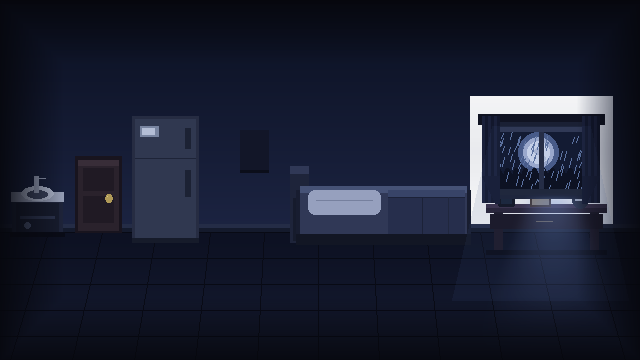
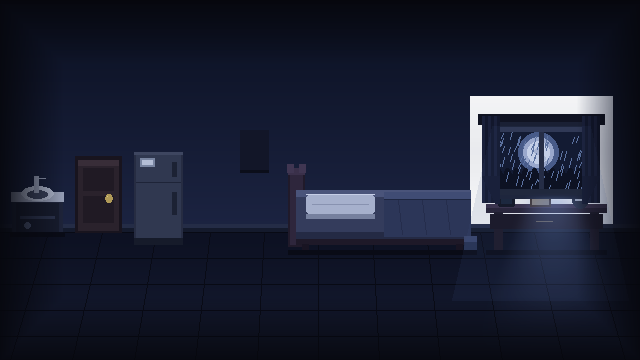
art: perbaiki karakter (idle diam + tangan), kasur, dan perkecil kulkas
- Karakter: idle kini benar-benar DIAM (sebelumnya memakai tabel langkah -> lengan
  berayun & badan naik-turun). Lengan dirapikan & diberi warna lebih gelap agar tidak
  menyatu dengan torso; tangan dibuat kecil (bukan balok peach besar).
- Ukuran karakter dinaikkan sedikit: player.gd sprite_scale=1.25 (visual saja, collision
  tetap) + kompensasi offset agar kaki menempel lantai.
- Kasur digambar ulang: headboard, matras tebal, bantal persegi jelas, selimut berlipat
  + menggantung, kaki & bayangan kontak -> jelas terbaca sebagai kasur.
- Kulkas diperkecil (48x90) + collision & anchor interactable disesuaikan.
- Docs: D008 + catatan animasi di MECHANICS_SPEC.
- test_reachability (Bedroom 1364), test_intro, test_chapter1_scenes LULUS.

diff --git a/scripts/gen_art_v2.py b/scripts/gen_art_v2.py
@@ -128,31 +128,38 @@ def draw_leg(g, x, top, lift, forward, c_leg, c_sh, c_shoe, c_shoe_hi):
 # ----------------------------------------------------------------------------
 # Karakter — Arutala (hoodie gelap, rambut spike ala Sasuke)
 # ----------------------------------------------------------------------------
-def draw_char(direction, frame):
+def draw_char(direction, frame, walking=True):
     g = new_grid()
     side = direction == "side"
     down = direction == "down"
     up = direction == "up"
 
     # ---------------- Kaki / langkah ----------------
+    # idle = berdiri DIAM (tanpa ayunan lengan / naik-turun). walk = langkah.
     if side:
-        STEPS = [
-            (4, 0, -3, 0, -3, 0),   # kontak
+        WALK = [
+            (4, 0, -3, 0, -2, 0),   # kontak
             (0, 0, 0, 3, 0, 1),     # passing
-            (-3, 0, 4, 0, 3, 0),    # kontak kebalikan
+            (-3, 0, 4, 0, 2, 0),    # kontak kebalikan
             (0, 3, 0, 0, 0, 1),     # passing
         ]
-        adx, alift, bdx, blift, aswing, bob = STEPS[frame]
+        if walking:
+            adx, alift, bdx, blift, aswing, bob = WALK[frame % 4]
+        else:
+            adx, alift, bdx, blift, aswing, bob = (0, 0, 0, 0, 0, 0)
         draw_leg(g, 12, 35, blift, bdx, P["pants_sh"], P["pants_sh"], P["shoe"], P["shoe_hi"])
         draw_leg(g, 12, 35, alift, adx, P["pants"], P["pants_sh"], P["shoe"], P["shoe_hi"])
     else:
-        STEPS = [
-            (-1, 0, 1, 0, 3, -3, 0),
+        WALK = [
+            (-1, 0, 1, 0, 2, -2, 0),
             (0, 3, 0, 0, 0, 0, 1),
-            (1, 0, -1, 0, -3, 3, 0),
+            (1, 0, -1, 0, -2, 2, 0),
             (0, 0, 0, 3, 0, 0, 1),
         ]
-        ldx, llift, rdx, rlift, larm, rarm, bob = STEPS[frame]
+        if walking:
+            ldx, llift, rdx, rlift, larm, rarm, bob = WALK[frame % 4]
+        else:
+            ldx, llift, rdx, rlift, larm, rarm, bob = (0, 0, 0, 0, 0, 0, 0)
         aswing = 0
         draw_leg(g, 10, 35, llift, ldx, P["pants"], P["pants_sh"], P["shoe"], P["shoe_hi"])
         draw_leg(g, 18, 35, rlift, rdx, P["pants"], P["pants_sh"], P["shoe"], P["shoe_hi"])
@@ -180,19 +187,24 @@ def draw_char(direction, frame):
     # kerah/hood di belakang leher
     rect(g, 10, ty0 - 1, 21, ty0 + 1, P["hood_sh"])
 
-    # ---------------- Lengan ----------------
+    # ---------------- Lengan (lebih ramping, terpisah dari torso) ----------------
     if side:
         ax = 15 + aswing
-        rect(g, ax - 2, ty0 + 2, ax + 2, ty1 - 2, P["hood"])
-        vline(g, ax + 2, ty0 + 2, ty1 - 2, P["hood_sh"])
-        rect(g, ax - 2, ty1 - 2, ax + 2, ty1 - 1, P["skin"])   # tangan
+        rect(g, ax - 2, ty0 + 2, ax + 1, ty1 - 3, P["hood_sh"])   # lengan (lebih gelap)
+        vline(g, ax - 2, ty0 + 2, ty1 - 3, P["hood"])             # tepi depan terang
+        rect(g, ax - 2, ty1 - 3, ax + 1, ty1 - 1, P["skin"])      # tangan 4x3
+        px(g, ax - 2, ty1 - 1, P["skin_sh"])                      # jempol
     else:
-        rect(g, 5, ty0 + 2 + larm, 8, ty1 - 1 + larm, P["hood"])
-        rect(g, 23, ty0 + 2 + rarm, 26, ty1 - 1 + rarm, P["hood"])
-        vline(g, 5, ty0 + 2 + larm, ty1 - 1 + larm, P["hood_hi"])
-        vline(g, 26, ty0 + 2 + rarm, ty1 - 1 + rarm, P["hood_sh"])
-        rect(g, 5, ty1 - 1 + larm, 8, ty1 + larm, P["skin"])
-        rect(g, 23, ty1 - 1 + rarm, 26, ty1 + rarm, P["skin"])
+        # lengan kiri & kanan (warna lebih gelap dari hoodie agar tidak menyatu)
+        rect(g, 6, ty0 + 2 + larm, 8, ty1 - 2 + larm, P["hood_sh"])
+        vline(g, 6, ty0 + 2 + larm, ty1 - 2 + larm, P["hood_hi"])
+        rect(g, 23, ty0 + 2 + rarm, 25, ty1 - 2 + rarm, P["hood_sh"])
+        vline(g, 25, ty0 + 2 + rarm, ty1 - 2 + rarm, P["hood_sh"])
+        # tangan kecil (3x2 + ibu jari) — bukan balok besar
+        rect(g, 6, ty1 - 2 + larm, 8, ty1 - 1 + larm, P["skin"])
+        px(g, 6, ty1 - 1 + larm, P["skin_sh"])
+        rect(g, 23, ty1 - 2 + rarm, 25, ty1 - 1 + rarm, P["skin"])
+        px(g, 25, ty1 - 1 + rarm, P["skin_sh"])
 
     # ---------------- Leher & kepala ----------------
     rect(g, 14, ty0 - 3, 17, ty0 - 1, P["skin_sh"])
@@ -293,10 +305,10 @@ def build_sheet(path):
     for name, row, count in ANIMS:
         direction = "down" if "down" in name else "up" if "up" in name else "side"
         for i in range(count):
-            frame = i if "walk" in name else (i * 2)
+            frame = i
             cell = Image.new("RGBA", (FW, FH), (0, 0, 0, 0))
             cell.alpha_composite(shadow)
-            cell.alpha_composite(draw_char(direction, frame))
+            cell.alpha_composite(draw_char(direction, frame, walking=("walk" in name)))
             sheet.alpha_composite(cell, (i * FW, row * FH))
     sheet.save(path)
     print(f"  sheet  -> {path}  {sheet.size}")
@@ -479,37 +491,54 @@ def make_bedroom(bg_dir):
     d.ellipse([dx1 - 13, 194, dx1 - 6, 202], fill=(176, 154, 88, 255))      # kenop
     d.point([(dx1 - 11, 196)], fill=(214, 198, 132, 255))
 
-    # ---------- Kulkas (samping pintu) ----------
-    fx0, fx1 = 132, 198
-    d.rectangle([fx0, 116, fx1, 242], fill=(38, 44, 66, 255))               # badan
-    d.rectangle([fx0 + 3, 119, fx1 - 3, 239], fill=(48, 56, 80, 255))
-    d.line([(fx0 + 3, 158), (fx1 - 3, 158)], fill=(30, 36, 56, 255))        # garis freezer
-    d.rectangle([fx1 - 13, 128, fx1 - 8, 148], fill=(28, 34, 52, 255))      # gagang atas
-    d.rectangle([fx1 - 13, 170, fx1 - 8, 196], fill=(28, 34, 52, 255))      # gagang bawah
-    d.rectangle([fx0 + 8, 126, fx0 + 26, 136], fill=(120, 132, 160, 255))   # magnet
-    d.rectangle([fx0 + 10, 128, fx0 + 22, 134], fill=(180, 190, 214, 255))
-    d.rectangle([fx0, 238, fx1, 242], fill=(22, 27, 42, 255))               # bayangan
+    # ---------- Kulkas (samping pintu) — lebih kecil, proporsional ----------
+    fx0, fx1 = 134, 182
+    fy0, fy1 = 152, 242
+    d.rectangle([fx0, fy0, fx1, fy1], fill=(38, 44, 66, 255))               # badan
+    d.rectangle([fx0 + 2, fy0 + 2, fx1 - 2, fy1 - 2], fill=(48, 56, 80, 255))
+    d.line([(fx0 + 2, 182), (fx1 - 2, 182)], fill=(30, 36, 56, 255))        # garis freezer
+    d.rectangle([fx0, fy0, fx1, fy0 + 2], fill=(62, 70, 96, 255))           # tepi atas
+    d.rectangle([fx1 - 10, 162, fx1 - 6, 176], fill=(28, 34, 52, 255))      # gagang atas
+    d.rectangle([fx1 - 10, 192, fx1 - 6, 214], fill=(28, 34, 52, 255))      # gagang bawah
+    d.rectangle([fx0 + 6, 158, fx0 + 20, 166], fill=(120, 132, 160, 255))   # magnet
+    d.rectangle([fx0 + 8, 160, fx0 + 18, 164], fill=(180, 190, 214, 255))
+    d.rectangle([fx0, 238, fx1, 244], fill=(22, 27, 42, 255))               # bayangan kontak
 
     # ---------- Backing cermin di dinding (prop mirror.png digambar di atas) ----------
     d.rectangle([240, 130, 268, 172], fill=(18, 22, 40, 255))              # bayangan lembut
     d.rectangle([240, 170, 268, 172], fill=(11, 14, 26, 255))
 
-    # ---------- Kasur (KANAN) ----------
+    # ---------- Kasur (KANAN) — rangka kayu, matras tebal, bantal & selimut ----------
     b0, b1 = 296, 470
-    d.rectangle([b0 - 6, 166, b0 + 12, 242], fill=(30, 36, 58, 255))        # kepala kasur
-    d.rectangle([b0 - 6, 166, b0 + 12, 173], fill=(48, 56, 86, 255))
-    d.rectangle([b0 - 3, 198, b0 + 5, 240], fill=(22, 27, 44, 255))
-    d.rectangle([b0, 190, b1, 244], fill=(24, 29, 48, 255))                 # rangka
-    d.rectangle([b0 + 4, 186, b1 - 4, 238], fill=(48, 56, 86, 255))         # kasur
-    d.rectangle([b0 + 4, 186, b1 - 4, 192], fill=(70, 82, 118, 255))        # tepi atas
-    d.rounded_rectangle([b0 + 12, 190, b0 + 84, 214], radius=7, fill=(150, 160, 190, 255))  # bantal
-    d.line([(b0 + 20, 200), (b0 + 76, 200)], fill=(118, 128, 158, 255))
-    d.rectangle([b0 + 92, 190, b1 - 6, 238], fill=(38, 46, 76, 255))        # selimut
-    d.rectangle([b0 + 92, 190, b1 - 6, 197], fill=(56, 68, 104, 255))       # lipatan
-    d.line([(b0 + 92, 197), (b1 - 6, 197)], fill=(28, 34, 56, 255))
-    d.line([(b0 + 126, 197), (b0 + 126, 238)], fill=(28, 34, 56, 255))
-    d.line([(b0 + 152, 197), (b0 + 152, 238)], fill=(32, 39, 62, 255))
-    d.rectangle([b0, 234, b1, 244], fill=(18, 22, 36, 255))                 # bayangan
+    # kepala kasur (headboard) tinggi dengan dua tiang
+    d.rectangle([b0 - 8, 168, b0 + 8, 246], fill=(32, 26, 42, 255))
+    d.rectangle([b0 - 6, 174, b0 + 6, 244], fill=(46, 38, 60, 255))
+    d.rectangle([b0 - 8, 168, b0 + 8, 174], fill=(58, 48, 74, 255))         # bibir atas
+    d.rectangle([b0 - 9, 164, b0 - 3, 172], fill=(64, 54, 82, 255))         # tiang kiri
+    d.rectangle([b0 + 3, 164, b0 + 9, 172], fill=(64, 54, 82, 255))         # tiang kanan
+    # rangka + kaki
+    d.rectangle([b0, 236, b1, 244], fill=(30, 25, 40, 255))
+    d.rectangle([b0 + 6, 244, b0 + 12, 252], fill=(24, 20, 34, 255))        # kaki kiri
+    d.rectangle([b1 - 14, 244, b1 - 8, 252], fill=(24, 20, 34, 255))        # kaki kanan
+    # matras tebal (dengan sisi atas terang & bawah gelap)
+    d.rectangle([b0, 190, b1, 238], fill=(52, 60, 92, 255))
+    d.rectangle([b0, 190, b1, 196], fill=(74, 84, 122, 255))
+    d.rectangle([b0, 232, b1, 238], fill=(36, 42, 68, 255))
+    # bantal (persegi, jelas) + lipatan + bayangan
+    d.rounded_rectangle([b0 + 10, 194, b0 + 78, 214], radius=5, fill=(166, 176, 204, 255))
+    d.line([(b0 + 10, 194), (b0 + 78, 194)], fill=(198, 206, 230, 255))
+    d.line([(b0 + 16, 204), (b0 + 72, 204)], fill=(136, 146, 176, 255))
+    d.rectangle([b0 + 10, 214, b0 + 78, 218], fill=(118, 128, 158, 255))
+    # selimut menutupi sisi kanan: tepi terlipat, kerutan, menggantung di kanan
+    g0 = b0 + 88
+    d.rectangle([g0, 192, b1, 236], fill=(44, 54, 88, 255))
+    d.rectangle([g0, 192, b1, 199], fill=(64, 76, 116, 255))                # tepi lipatan
+    d.line([(g0, 199), (b1, 199)], fill=(30, 38, 64, 255))
+    for wx in range(g0 + 14, b1 - 10, 24):
+        d.line([(wx, 200), (wx + 4, 234)], fill=(37, 45, 76, 255))          # kerutan
+    d.rectangle([b1 - 6, 236, b1 + 6, 252], fill=(40, 50, 82, 255))         # selimut menggantung
+    d.rectangle([b1 - 6, 236, b1 + 6, 241], fill=(58, 70, 108, 255))
+    d.rectangle([b0 - 8, 250, b1 + 6, 254], fill=(9, 11, 22, 255))          # bayangan kontak
 
     # ---------- Meja (KANAN) + barang ----------
     mx0, mx1 = 486, 606

diff --git a/docs/DECISIONS.md b/docs/DECISIONS.md
@@ -176,3 +176,36 @@ sebagai satu-satunya sumber cahaya.
 - Referensi dipindah ke `docs/references/` (bukan `assets/`) supaya tidak ikut jadi aset game.
 - Regenerasi latar: `/usr/bin/python3 scripts/gen_art_v2.py` (butuh PIL).
 - Referensi #1 dipakai hanya bila #2 tidak memungkinkan; di sini #2 dipakai.
+
+## D008 — Perbaikan Karakter (idle diam + tangan), Kasur, & Ukuran Kulkas
+
+**Tanggal:** 2026-10-09
+**Status:** Diputuskan
+
+### Konteks
+Umpan balik pemain: **kasur masih sangat jelek**, **kulkas terlalu besar**, karakter
+**perlu sedikit lebih besar**, dan saat berdiam karakter **harus langsung idle diam**
+(tangannya "sangat annoying" karena berayun/menekuk).
+
+### Keputusan
+- **Karakter:**
+  - **Idle benar-benar diam.** Sebelumnya frame idle memakai tabel langkah yang sama
+    dengan walk, sehingga lengan berayun +/-2-3 px dan badan naik-turun. Sekarang
+    `draw_char(..., walking=False)` memakai pose statis; frame idle identik.
+  - **Tangan & lengan dirapikan:** lengan lebih ramping, diwarnai `hood_sh` (lebih
+    gelap dari torso) agar tidak menyatu, dan tangan dibuat kecil (3x2 + ibu jari),
+    bukan balok peach besar.
+  - **Ukuran sedikit lebih besar:** `player.gd` `sprite_scale = 1.25` (murni visual,
+    collision tak berubah) + kompensasi offset agar kaki tetap menempel lantai.
+- **Kasur:** digambar ulang — headboard berkepala tiang, matras tebal (highlight atas /
+  bayangan bawah), **bantal persegi jelas**, selimut dengan tepi terlipat + kerutan +
+  menggantung di sisi kanan, kaki & bayangan kontak. Kini jelas terbaca sebagai kasur.
+- **Kulkas:** diperkecil dari ~66x126 -> **48x90** (badan 134..182 x 152..242); collision
+  `RectangleShape2D_fridge` 68x124 -> **50x92** dan dipindah ke (158,197); anchor
+  interactable disesuaikan agar tetap terjangkau.
+
+### Konsekuensi
+- `gen_art_v2.py`: `draw_char(direction, frame, walking=True)`, `build_sheet` mengoper
+  flag `walking`; `make_bedroom` (kasur + kulkas) diperbarui.
+- Regenerasi: `/usr/bin/python3 scripts/gen_art_v2.py`.
+- Uji: `test_reachability` (Bedroom 1364 titik), `test_intro`, `test_chapter1_scenes` LULUS.

diff --git a/docs/MECHANICS_SPEC.md b/docs/MECHANICS_SPEC.md
@@ -54,6 +54,12 @@ Spesifikasi sistem. Tiap sistem punya tujuan emosional, perilaku, dan kriteria p
 - Area interaksi diperbesar & digeser ke zona jalan agar interaksi muncul saat pemain
   benar-benar dekat (bukan terlalu jauh).
 
+## 7a. Animasi Karakter
+- Animasi 4 arah (idle/walk). **Idle benar-benar diam** (frame identik, tanpa ayunan
+  lengan atau bob). Walk memakai siklus 4 frame dengan ayunan lengan.
+- Sprite dapat diperbesar lewat `PlayerCharacter.sprite_scale` (default 1.25) tanpa
+  mengubah collision; kaki dijaga menempel lantai lewat kompensasi offset.
+
 ## 7b. Gerak Terarah (Scripted Walk)
 - `PlayerCharacter.auto_walk_to(target, speed)` — berjalan otomatis ke titik tujuan,
   memainkan animasi jalan lalu berhenti. Dipakai di adegan terarah, mis. saat tiba di
